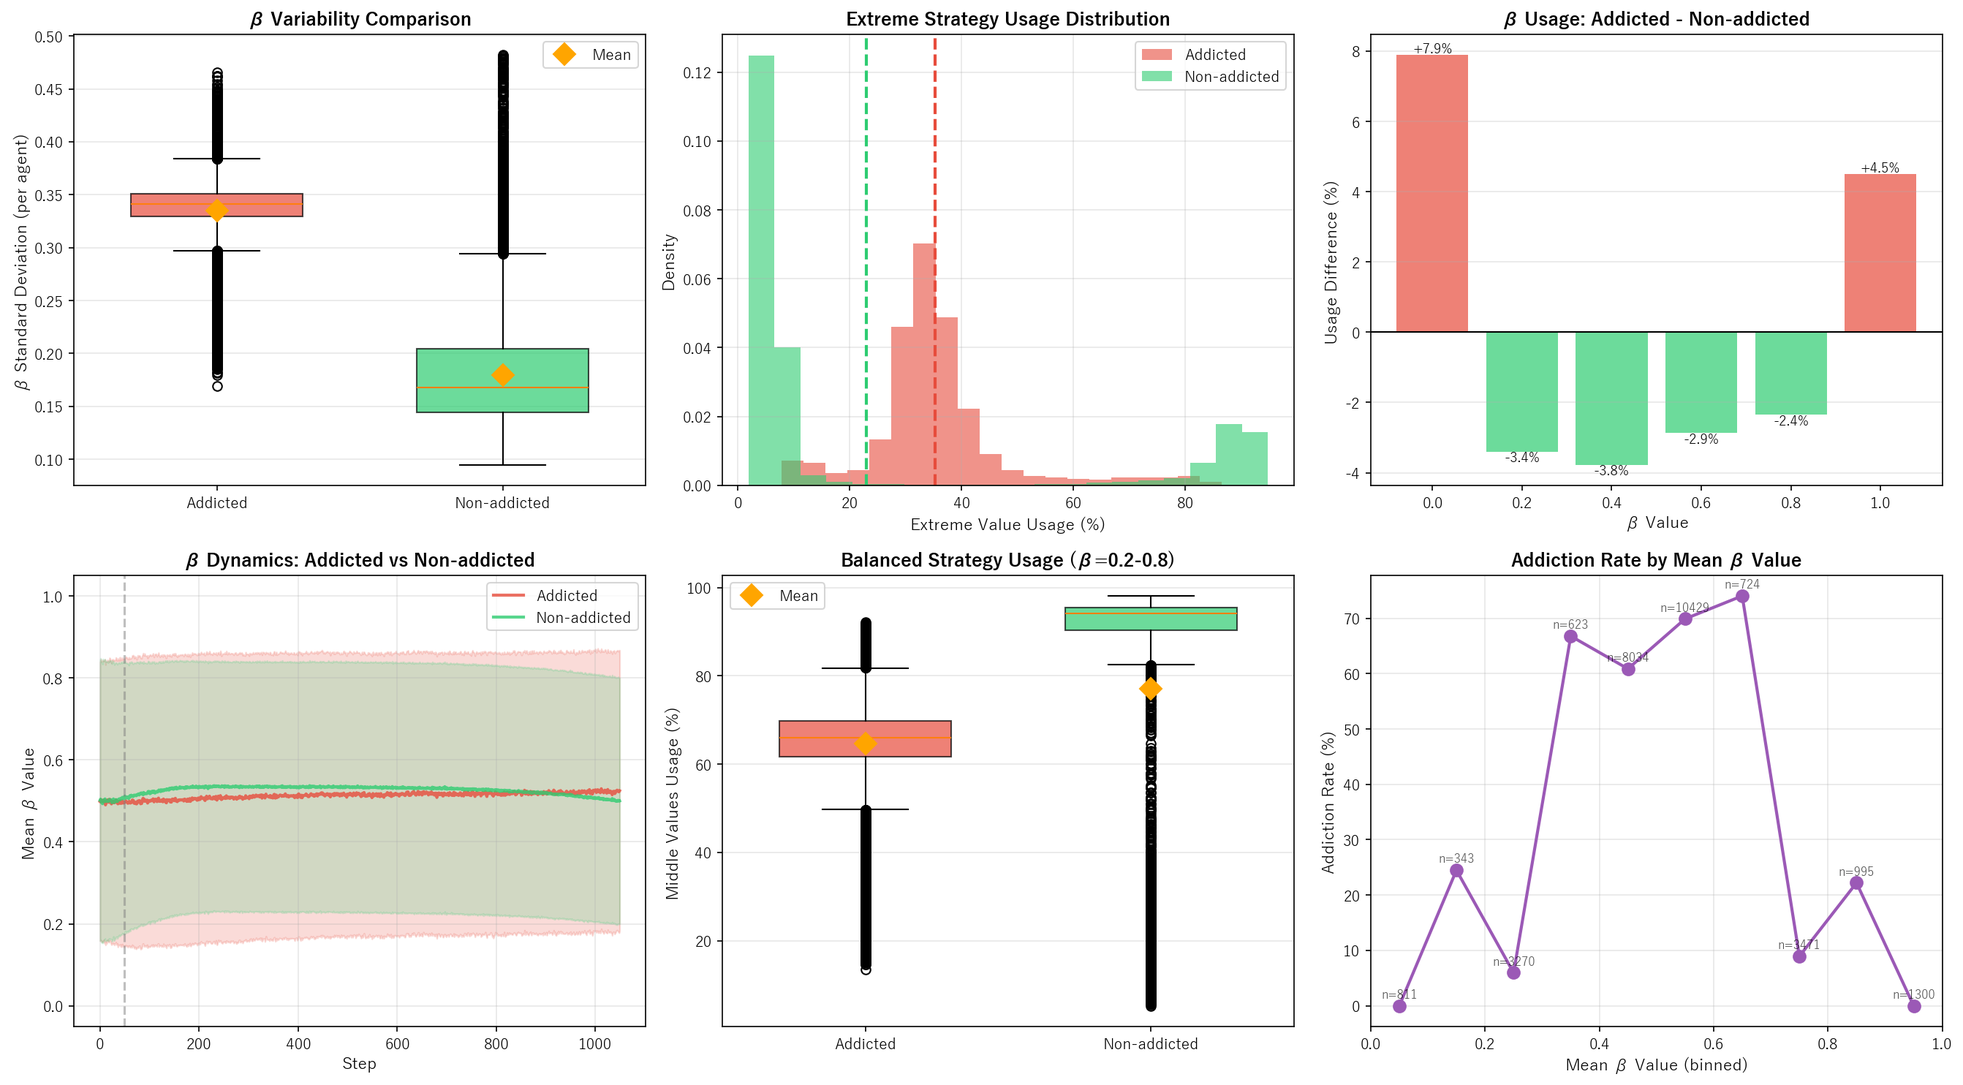
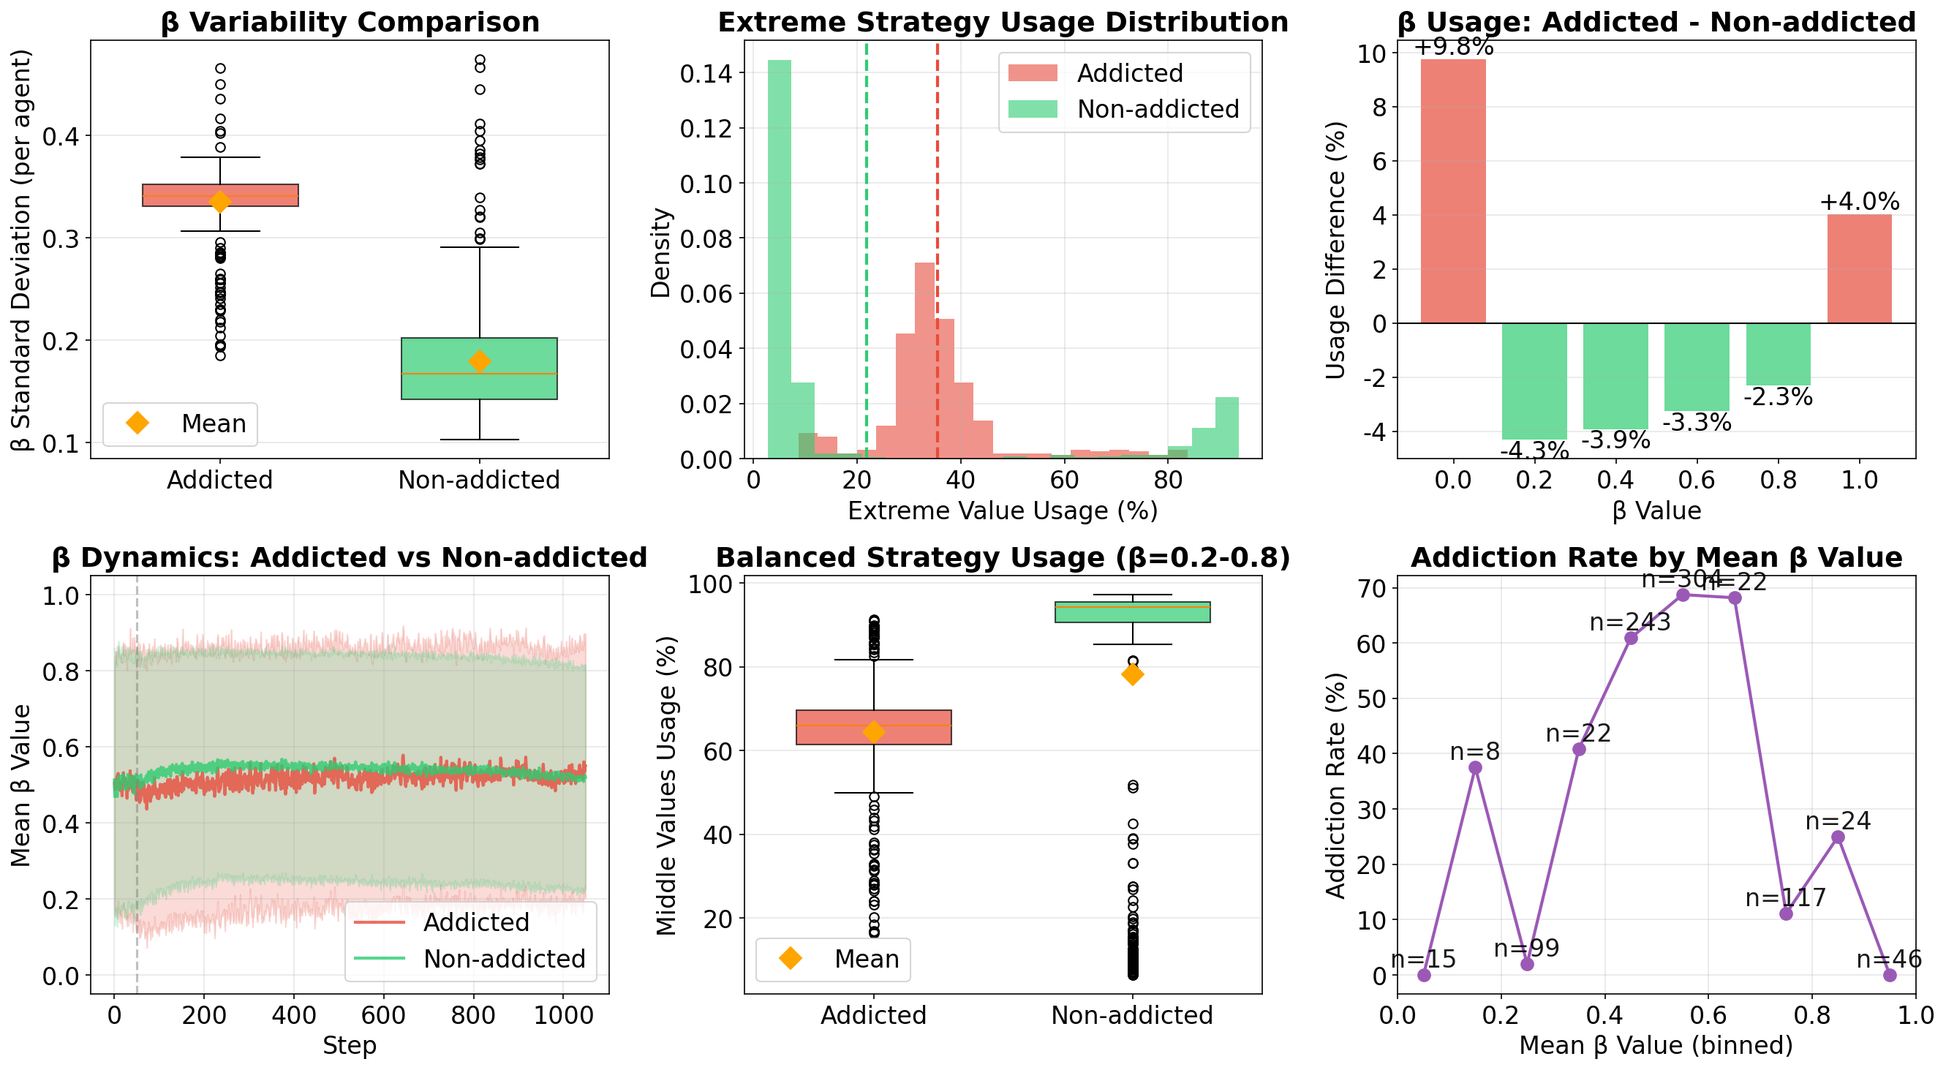
figureの改善

diff --git a/addiction_rl_sim.py b/addiction_rl_sim.py
@@ -797,6 +797,16 @@ def plot_beta_analysis(beta_stats: BetaStatistics, output_prefix: str = "beta_an
     # 日本語フォント設定（Windows環境）
     matplotlib.rcParams['font.family'] = ['Yu Gothic', 'MS Gothic', 'Meiryo', 'sans-serif']
     matplotlib.rcParams['axes.unicode_minus'] = False  # マイナス記号の文字化け対策
+    # 全体フォントサイズを大きめに設定（16pt以上）
+    matplotlib.rcParams.update({
+        'font.size': 16,
+        'axes.titlesize': 18,
+        'axes.labelsize': 16,
+        'xtick.labelsize': 16,
+        'ytick.labelsize': 16,
+        'legend.fontsize': 16,
+        'figure.titlesize': 18,
+    })
     
     # 全エージェントのデータを2次元配列に変換
     # beta_history_all: List[List[float]] -> (num_agents, num_steps)
@@ -830,21 +840,21 @@ def plot_beta_analysis(beta_stats: BetaStatistics, output_prefix: str = "beta_an
     phase_boundary = np.where(np.diff(phase_mean) != 0)[0]
     for boundary in phase_boundary:
         ax1_top.axvline(step_array[boundary], color='gray', linestyle='--', alpha=0.5, linewidth=1.5)
-        ax1_top.text(step_array[boundary], 1.02, 'Phase Change', ha='center', fontsize=9)
+        ax1_top.text(step_array[boundary], 1.02, 'Phase Change', ha='center', fontsize=16)
     
-    ax1_top.set_ylabel('Selected β Value', fontsize=12)
+    ax1_top.set_ylabel('Selected β Value', fontsize=16)
     ax1_top.set_ylim(-0.05, 1.1)
     ax1_top.set_title(f'β Selection Over Time - Mean±SD across {beta_stats.num_agents} agents', 
-                      fontsize=14, fontweight='bold')
+                      fontsize=18, fontweight='bold')
     ax1_top.legend(loc='upper right')
     ax1_top.grid(True, alpha=0.3)
     
     # 下段: 状態の時系列（平均）
     ax1_bottom = fig1.add_subplot(gs1[1], sharex=ax1_top)
     ax1_bottom.plot(step_array, state_mean, 'b-', linewidth=1, alpha=0.7)
-    ax1_bottom.set_xlabel('Step', fontsize=12)
-    ax1_bottom.set_ylabel('Mean State', fontsize=12)
-    ax1_bottom.set_title('Average State Trajectory', fontsize=12)
+    ax1_bottom.set_xlabel('Step', fontsize=16)
+    ax1_bottom.set_ylabel('Mean State', fontsize=16)
+    ax1_bottom.set_title('Average State Trajectory', fontsize=18)
     ax1_bottom.grid(True, alpha=0.3)
     
     plt.tight_layout()
@@ -878,12 +888,12 @@ def plot_beta_analysis(beta_stats: BetaStatistics, output_prefix: str = "beta_an
             count = np.sum(np.isclose(phase_betas, beta_val))
             percentage = 100.0 * count / len(phase_betas)
             ax.text(beta_val, count, f'{percentage:.1f}%', 
-                   ha='center', va='bottom', fontsize=9, fontweight='bold')
+                   ha='center', va='bottom', fontsize=16, fontweight='bold')
         
-        ax.set_xlabel('β Value', fontsize=12)
-        ax.set_ylabel('Frequency', fontsize=12)
+        ax.set_xlabel('β Value', fontsize=16)
+        ax.set_ylabel('Frequency', fontsize=16)
         ax.set_title(f'{phase_name} Phase (n={len(phase_betas)} steps, {beta_stats.num_agents} agents)', 
-                    fontsize=13, fontweight='bold')
+                    fontsize=18, fontweight='bold')
         ax.set_xticks(BETA_VALUES)
         ax.grid(True, alpha=0.3, axis='y')
     
@@ -913,13 +923,13 @@ def plot_beta_analysis(beta_stats: BetaStatistics, output_prefix: str = "beta_an
     
     # カラーバー
     cbar = plt.colorbar(im, ax=ax3)
-    cbar.set_label('Selection Percentage (%)', fontsize=12)
+    cbar.set_label('Selection Percentage (%)', fontsize=16)
     
     # 軸ラベル
-    ax3.set_xlabel('State', fontsize=12)
-    ax3.set_ylabel('β Value', fontsize=12)
+    ax3.set_xlabel('State', fontsize=16)
+    ax3.set_ylabel('β Value', fontsize=16)
     ax3.set_title(f'β Selection Heatmap by State ({beta_stats.num_agents} agents)', 
-                  fontsize=14, fontweight='bold')
+                  fontsize=18, fontweight='bold')
     ax3.set_xticks(range(NUM_STATES))
     ax3.set_yticks(range(len(BETA_VALUES)))
     ax3.set_yticklabels([f'{b:.1f}' for b in BETA_VALUES])
@@ -952,7 +962,7 @@ def plot_beta_analysis(beta_stats: BetaStatistics, output_prefix: str = "beta_an
         autotext.set_color('white')
         autotext.set_fontweight('bold')
     ax4_1.set_title(f'Overall β Distribution\n({beta_stats.num_agents} agents)', 
-                    fontsize=13, fontweight='bold')
+                    fontsize=18, fontweight='bold')
     
     # (2) フェーズごとの平均β
     ax4_2 = axes4[0, 1]
@@ -960,9 +970,9 @@ def plot_beta_analysis(beta_stats: BetaStatistics, output_prefix: str = "beta_an
     phase_stds = [np.std(beta_all[phase_all == i]) for i in range(len(PHASES))]
     bars = ax4_2.bar(phase_names, phase_means, yerr=phase_stds, 
                      color=['#3498db', '#e74c3c'], alpha=0.7, capsize=10)
-    ax4_2.set_ylabel('Mean β Value', fontsize=12)
+    ax4_2.set_ylabel('Mean β Value', fontsize=16)
     ax4_2.set_ylim(0, 1)
-    ax4_2.set_title('Average β by Phase', fontsize=13, fontweight='bold')
+    ax4_2.set_title('Average β by Phase', fontsize=18, fontweight='bold')
     ax4_2.grid(True, alpha=0.3, axis='y')
     
     # 値を表示
@@ -991,9 +1001,9 @@ def plot_beta_analysis(beta_stats: BetaStatistics, output_prefix: str = "beta_an
     bars3 = ax4_3.barh(type_labels, type_means, xerr=type_stds, 
                        color=['#2ecc71', '#f39c12', '#e74c3c', '#9b59b6'], 
                        alpha=0.7, capsize=10)
-    ax4_3.set_xlabel('Mean β Value', fontsize=12)
+    ax4_3.set_xlabel('Mean β Value', fontsize=16)
     ax4_3.set_xlim(0, 1)
-    ax4_3.set_title('Average β by State Type', fontsize=13, fontweight='bold')
+    ax4_3.set_title('Average β by State Type', fontsize=18, fontweight='bold')
     ax4_3.grid(True, alpha=0.3, axis='x')
     
     # (4) β値の推移（学習曲線、平均±標準偏差）
@@ -1014,10 +1024,10 @@ def plot_beta_analysis(beta_stats: BetaStatistics, output_prefix: str = "beta_an
         ax4_4.errorbar(bin_steps, bin_means, yerr=bin_stds, 
                       fmt='o-', linewidth=2, markersize=8, color='#e67e22',
                       capsize=5, capthick=2)
-        ax4_4.set_xlabel('Step', fontsize=12)
-        ax4_4.set_ylabel('Mean β Value', fontsize=12)
+        ax4_4.set_xlabel('Step', fontsize=16)
+        ax4_4.set_ylabel('Mean β Value', fontsize=16)
         ax4_4.set_ylim(0, 1)
-        ax4_4.set_title('β Learning Curve (binned average±SD)', fontsize=13, fontweight='bold')
+        ax4_4.set_title('β Learning Curve (binned average±SD)', fontsize=18, fontweight='bold')
         ax4_4.grid(True, alpha=0.3)
     
     plt.tight_layout()
@@ -1061,10 +1071,10 @@ def plot_beta_analysis(beta_stats: BetaStatistics, output_prefix: str = "beta_an
         bars2 = ax5_1.bar(x_pos + width/2, freq_non_addicted, width,
                          label=f'Non-addicted (n={n_non_addicted})', color='#2ecc71', alpha=0.7)
         
-        ax5_1.set_xlabel('β Value', fontsize=12)
-        ax5_1.set_ylabel('Selection Frequency (%)', fontsize=12)
+        ax5_1.set_xlabel('β Value', fontsize=16)
+        ax5_1.set_ylabel('Selection Frequency (%)', fontsize=16)
         ax5_1.set_title('β Selection Frequency: Addicted vs Non-addicted', 
-                       fontsize=13, fontweight='bold')
+                   fontsize=18, fontweight='bold')
         ax5_1.set_xticks(x_pos)
         ax5_1.set_xticklabels([f'{b:.1f}' for b in BETA_VALUES])
         ax5_1.legend()
@@ -1076,9 +1086,9 @@ def plot_beta_analysis(beta_stats: BetaStatistics, output_prefix: str = "beta_an
                   color='#e74c3c', density=True)
         ax5_2.hist(beta_non_addicted, bins=20, alpha=0.6, label=f'Non-addicted (n={n_non_addicted})',
                   color='#2ecc71', density=True)
-        ax5_2.set_xlabel('β Value', fontsize=12)
-        ax5_2.set_ylabel('Density', fontsize=12)
-        ax5_2.set_title('β Distribution Comparison', fontsize=13, fontweight='bold')
+        ax5_2.set_xlabel('β Value', fontsize=16)
+        ax5_2.set_ylabel('Density', fontsize=16)
+        ax5_2.set_title('β Distribution Comparison', fontsize=18, fontweight='bold')
         ax5_2.legend()
         ax5_2.grid(True, alpha=0.3)
         
@@ -1093,8 +1103,8 @@ def plot_beta_analysis(beta_stats: BetaStatistics, output_prefix: str = "beta_an
         bp['boxes'][1].set_facecolor('#2ecc71')
         bp['boxes'][1].set_alpha(0.7)
         
-        ax5_3.set_ylabel('β Value', fontsize=12)
-        ax5_3.set_title('β Value Distribution (Boxplot)', fontsize=13, fontweight='bold')
+        ax5_3.set_ylabel('β Value', fontsize=16)
+        ax5_3.set_title('β Value Distribution (Boxplot)', fontsize=18, fontweight='bold')
         ax5_3.grid(True, alpha=0.3, axis='y')
         
         # 平均値を表示
@@ -1167,10 +1177,10 @@ def plot_beta_analysis(beta_stats: BetaStatistics, output_prefix: str = "beta_an
                          yerr=stds_non, label='Non-addicted',
                          color='#2ecc71', alpha=0.7, capsize=5)
         
-        ax5_4.set_xlabel('Phase', fontsize=12)
-        ax5_4.set_ylabel('Mean β Value', fontsize=12)
+        ax5_4.set_xlabel('Phase', fontsize=16)
+        ax5_4.set_ylabel('Mean β Value', fontsize=16)
         ax5_4.set_title('Average β by Phase: Addicted vs Non-addicted', 
-                       fontsize=13, fontweight='bold')
+                   fontsize=18, fontweight='bold')
         ax5_4.set_xticks(x_pos_phase)
         ax5_4.set_xticklabels(phase_names)
         ax5_4.set_ylim(0, 1)
@@ -1198,8 +1208,8 @@ def plot_beta_analysis(beta_stats: BetaStatistics, output_prefix: str = "beta_an
         bp1['boxes'][1].set_facecolor('#2ecc71')
         bp1['boxes'][1].set_alpha(0.7)
         
-        ax6_1.set_ylabel('β Standard Deviation (per agent)', fontsize=11)
-        ax6_1.set_title('β Variability Comparison', fontsize=12, fontweight='bold')
+        ax6_1.set_ylabel('β Standard Deviation (per agent)', fontsize=16)
+        ax6_1.set_title('β Variability Comparison', fontsize=18, fontweight='bold')
         ax6_1.grid(True, alpha=0.3, axis='y')
         
         # 平均値を表示
@@ -1224,9 +1234,9 @@ def plot_beta_analysis(beta_stats: BetaStatistics, output_prefix: str = "beta_an
                   color='#e74c3c', density=True)
         ax6_2.hist(extreme_rates_non, bins=20, alpha=0.6, label='Non-addicted',
                   color='#2ecc71', density=True)
-        ax6_2.set_xlabel('Extreme Value Usage (%)', fontsize=11)
-        ax6_2.set_ylabel('Density', fontsize=11)
-        ax6_2.set_title('Extreme Strategy Usage Distribution', fontsize=12, fontweight='bold')
+        ax6_2.set_xlabel('Extreme Value Usage (%)', fontsize=16)
+        ax6_2.set_ylabel('Density', fontsize=16)
+        ax6_2.set_title('Extreme Strategy Usage Distribution', fontsize=18, fontweight='bold')
         ax6_2.legend()
         ax6_2.grid(True, alpha=0.3)
         ax6_2.axvline(np.mean(extreme_rates_add), color='#e74c3c', linestyle='--', linewidth=2)
@@ -1243,9 +1253,9 @@ def plot_beta_analysis(beta_stats: BetaStatistics, output_prefix: str = "beta_an
         colors_diff = ['#e74c3c' if d > 0 else '#2ecc71' for d in freq_diff]
         bars_diff = ax6_3.bar(range(len(BETA_VALUES)), freq_diff, color=colors_diff, alpha=0.7)
         ax6_3.axhline(0, color='black', linewidth=1)
-        ax6_3.set_xlabel('β Value', fontsize=11)
-        ax6_3.set_ylabel('Usage Difference (%)', fontsize=11)
-        ax6_3.set_title('β Usage: Addicted - Non-addicted', fontsize=12, fontweight='bold')
+        ax6_3.set_xlabel('β Value', fontsize=16)
+        ax6_3.set_ylabel('Usage Difference (%)', fontsize=16)
+        ax6_3.set_title('β Usage: Addicted - Non-addicted', fontsize=18, fontweight='bold')
         ax6_3.set_xticks(range(len(BETA_VALUES)))
         ax6_3.set_xticklabels([f'{b:.1f}' for b in BETA_VALUES])
         ax6_3.grid(True, alpha=0.3, axis='y')
@@ -1255,7 +1265,7 @@ def plot_beta_analysis(beta_stats: BetaStatistics, output_prefix: str = "beta_an
             height = bar.get_height()
             ax6_3.text(bar.get_x() + bar.get_width()/2, height,
                       f'{diff:+.1f}%', ha='center', 
-                      va='bottom' if height > 0 else 'top', fontsize=9)
+                      va='bottom' if height > 0 else 'top', fontsize=16)
         
         # (4) 時系列でのβ平均（依存群vs非依存群）
         ax6_4 = axes6[1, 0]
@@ -1283,9 +1293,9 @@ def plot_beta_analysis(beta_stats: BetaStatistics, output_prefix: str = "beta_an
         for boundary in phase_boundary:
             ax6_4.axvline(step_array[boundary], color='gray', linestyle='--', alpha=0.5)
         
-        ax6_4.set_xlabel('Step', fontsize=11)
-        ax6_4.set_ylabel('Mean β Value', fontsize=11)
-        ax6_4.set_title('β Dynamics: Addicted vs Non-addicted', fontsize=12, fontweight='bold')
+        ax6_4.set_xlabel('Step', fontsize=16)
+        ax6_4.set_ylabel('Mean β Value', fontsize=16)
+        ax6_4.set_title('β Dynamics: Addicted vs Non-addicted', fontsize=18, fontweight='bold')
         ax6_4.set_ylim(-0.05, 1.05)
         ax6_4.legend()
         ax6_4.grid(True, alpha=0.3)
@@ -1314,8 +1324,8 @@ def plot_beta_analysis(beta_stats: BetaStatistics, output_prefix: str = "beta_an
         bp2['boxes'][1].set_facecolor('#2ecc71')
         bp2['boxes'][1].set_alpha(0.7)
         
-        ax6_5.set_ylabel('Middle Values Usage (%)', fontsize=11)
-        ax6_5.set_title('Balanced Strategy Usage (β=0.2-0.8)', fontsize=12, fontweight='bold')
+        ax6_5.set_ylabel('Middle Values Usage (%)', fontsize=16)
+        ax6_5.set_title('Balanced Strategy Usage (β=0.2-0.8)', fontsize=18, fontweight='bold')
         ax6_5.grid(True, alpha=0.3, axis='y')
         
         # 平均値を表示
@@ -1350,16 +1360,16 @@ def plot_beta_analysis(beta_stats: BetaStatistics, output_prefix: str = "beta_an
         
         ax6_6.plot(bin_centers, addiction_rates_by_beta, 'o-', linewidth=2, markersize=8,
                   color='#9b59b6')
-        ax6_6.set_xlabel('Mean β Value (binned)', fontsize=11)
-        ax6_6.set_ylabel('Addiction Rate (%)', fontsize=11)
-        ax6_6.set_title('Addiction Rate by Mean β Value', fontsize=12, fontweight='bold')
+        ax6_6.set_xlabel('Mean β Value (binned)', fontsize=16)
+        ax6_6.set_ylabel('Addiction Rate (%)', fontsize=16)
+        ax6_6.set_title('Addiction Rate by Mean β Value', fontsize=18, fontweight='bold')
         ax6_6.grid(True, alpha=0.3)
         ax6_6.set_xlim(0, 1)
         
         # サンプル数を注釈
         for x, y, count in zip(bin_centers, addiction_rates_by_beta, bin_counts):
             ax6_6.annotate(f'n={count}', (x, y), textcoords='offset points',
-                          xytext=(0, 5), ha='center', fontsize=8, alpha=0.7)
+                          xytext=(0, 5), ha='center', fontsize=16, alpha=0.9)
         
         plt.tight_layout()
         plt.savefig(f"{output_prefix}_detailed_analysis.png", dpi=150, bbox_inches='tight')
@@ -1437,11 +1447,11 @@ def plot_beta_analysis(beta_stats: BetaStatistics, output_prefix: str = "beta_an
             ax7_1.axvline(step_array[boundary], color='gray', linestyle='--', 
                          linewidth=1.5, alpha=0.5)
         
-        ax7_1.set_ylabel('Usage Rate (%)', fontsize=12)
+        ax7_1.set_ylabel('Usage Rate (%)', fontsize=16)
         ax7_1.set_ylim(5, 26)
-        ax7_1.set_title(f'時間窓別β使用率: 依存群 (n={n_addicted_agents} agents)', 
-                       fontsize=14, fontweight='bold')
-        ax7_1.legend(loc='best', fontsize=10, ncol=3)
+        ax7_1.set_title(f'Windowed β Usage: Addicted (n={n_addicted_agents} agents)', 
+                   fontsize=18, fontweight='bold')
+        ax7_1.legend(loc='best', fontsize=16, ncol=3)
         ax7_1.grid(True, alpha=0.3)
         
         # Non-addicted群のプロット（下段）
@@ -1457,12 +1467,12 @@ def plot_beta_analysis(beta_stats: BetaStatistics, output_prefix: str = "beta_an
             ax7_2.axvline(step_array[boundary], color='gray', linestyle='--',
                          linewidth=1.5, alpha=0.5)
         
-        ax7_2.set_xlabel('Step (window center)', fontsize=12)
-        ax7_2.set_ylabel('Usage Rate (%)', fontsize=12)
+        ax7_2.set_xlabel('Step (window center)', fontsize=16)
+        ax7_2.set_ylabel('Usage Rate (%)', fontsize=16)
         ax7_2.set_ylim(5, 26)
-        ax7_2.set_title(f'時間窓別β使用率: 非依存群 (n={n_non_addicted_agents} agents)', 
-                       fontsize=14, fontweight='bold')
-        ax7_2.legend(loc='best', fontsize=10, ncol=3)
+        ax7_2.set_title(f'Windowed β Usage: Non-addicted (n={n_non_addicted_agents} agents)', 
+                   fontsize=18, fontweight='bold')
+        ax7_2.legend(loc='best', fontsize=16, ncol=3)
         ax7_2.grid(True, alpha=0.3)
         
         plt.tight_layout()
@@ -1514,31 +1524,31 @@ def plot_beta_analysis(beta_stats: BetaStatistics, output_prefix: str = "beta_an
         )
         
         ax8_1.hist(beta_switches_addicted, bins=bins_switches, alpha=0.6, 
-                  label=f'依存群 (n={n_addicted})', color='#e74c3c', density=True)
+              label=f'Addicted (n={n_addicted})', color='#e74c3c', density=True)
         ax8_1.hist(beta_switches_non_addicted, bins=bins_switches, alpha=0.6,
-                  label=f'非依存群 (n={n_non_addicted})', color='#3498db', density=True)
+              label=f'Non-addicted (n={n_non_addicted})', color='#3498db', density=True)
         
-        ax8_1.set_xlabel('β切り替え回数（全ステップ）', fontsize=13)
-        ax8_1.set_ylabel('Density', fontsize=13)
-        ax8_1.set_title('β切り替え回数の分布', fontsize=14, fontweight='bold')
-        ax8_1.legend(fontsize=12)
+        ax8_1.set_xlabel('Number of β switches (all steps)', fontsize=16)
+        ax8_1.set_ylabel('Density', fontsize=16)
+        ax8_1.set_title('Distribution of β Switch Counts', fontsize=18, fontweight='bold')
+        ax8_1.legend(fontsize=16)
         ax8_1.grid(True, alpha=0.3)
         
         # 平均値を垂直線で表示
         mean_switches_add = np.mean(beta_switches_addicted)
         mean_switches_non = np.mean(beta_switches_non_addicted)
         ax8_1.axvline(mean_switches_add, color='#e74c3c', linestyle='--', 
-                     linewidth=2, label=f'依存群平均: {mean_switches_add:.1f}')
+                 linewidth=2, label=f'Addicted mean: {mean_switches_add:.1f}')
         ax8_1.axvline(mean_switches_non, color='#3498db', linestyle='--',
-                     linewidth=2, label=f'非依存群平均: {mean_switches_non:.1f}')
-        ax8_1.legend(fontsize=11)
+                 linewidth=2, label=f'Non-addicted mean: {mean_switches_non:.1f}')
+        ax8_1.legend(fontsize=16)
         
         # (2) β「飛び越し選択」の頻度（右図）
         ax8_2 = axes8[1]
         
         # 飛び越し距離のヒストグラム（積み上げ棒グラフ）
         max_jump = 5  # β値のインデックス最大差（0から5まで）
-        jump_labels = ['隣接', '1', '2', '3', '4', '最大']
+        jump_labels = ['Adjacent', '1', '2', '3', '4', 'Max']
         
         # 各距離の出現回数を計算
         jump_counts_add = []
@@ -1568,16 +1578,16 @@ def plot_beta_analysis(beta_stats: BetaStatistics, output_prefix: str = "beta_an
         width_jump = 0.35
         
         bars_jump_add = ax8_2.bar(x_pos_jump - width_jump/2, jump_freq_add, width_jump,
-                                  label='依存群', color='#e74c3c', alpha=0.7)
+                      label='Addicted', color='#e74c3c', alpha=0.7)
         bars_jump_non = ax8_2.bar(x_pos_jump + width_jump/2, jump_freq_non, width_jump,
-                                  label='非依存群', color='#3498db', alpha=0.7)
+                      label='Non-addicted', color='#3498db', alpha=0.7)
         
-        ax8_2.set_xlabel('β切り替え時の距離（インデックス差分）', fontsize=13)
-        ax8_2.set_ylabel('Density', fontsize=13)
-        ax8_2.set_title('β「飛び越し選択」の頻度', fontsize=14, fontweight='bold')
+        ax8_2.set_xlabel('β Switch Distance (index difference)', fontsize=16)
+        ax8_2.set_ylabel('Density', fontsize=16)
+        ax8_2.set_title('Frequency of β Jump Selections', fontsize=18, fontweight='bold')
         ax8_2.set_xticks(x_pos_jump)
-        ax8_2.set_xticklabels(jump_labels, fontsize=11)
-        ax8_2.legend(fontsize=12)
+        ax8_2.set_xticklabels(jump_labels, fontsize=16)
+        ax8_2.legend(fontsize=16)
         ax8_2.grid(True, alpha=0.3, axis='y')
         
         # 各バーに値を表示
@@ -1586,7 +1596,7 @@ def plot_beta_analysis(beta_stats: BetaStatistics, output_prefix: str = "beta_an
                 height = bar.get_height()
                 if height > 0:
                     ax8_2.text(bar.get_x() + bar.get_width()/2, height,
-                              f'{height:.3f}', ha='center', va='bottom', fontsize=9)
+                              f'{height:.3f}', ha='center', va='bottom', fontsize=16)
         
         plt.tight_layout()
         plt.savefig(f"{output_prefix}_beta_switches_jumps.png", dpi=150, bbox_inches='tight')
